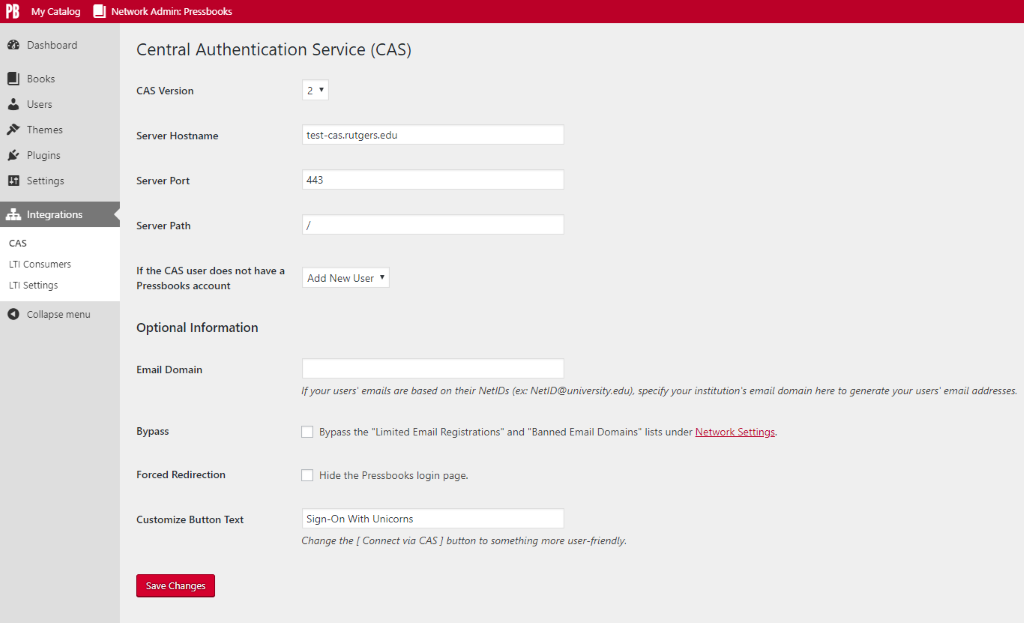
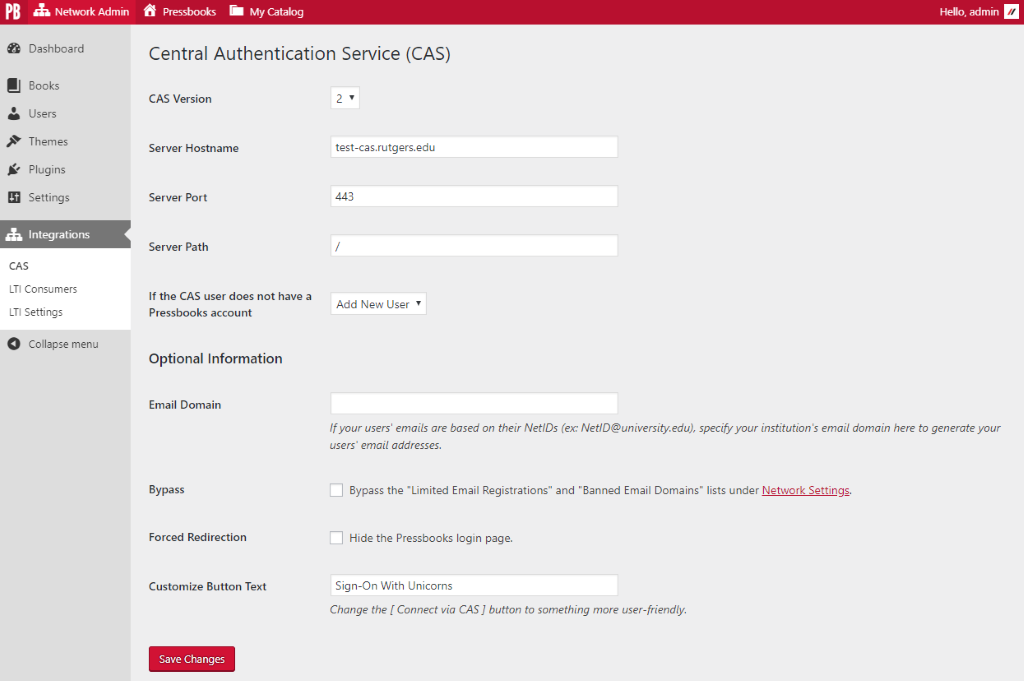
Update screeshot, improve error buffer

diff --git a/inc/class-cas.php b/inc/class-cas.php
@@ -219,7 +219,7 @@ class CAS {
 				if ( phpCAS::isAuthenticated() ) {
 					$net_id = phpCAS::getUser();
 					$email = "{$net_id}@{$this->emailDomain}";
-					ob_get_clean();
+					ob_end_clean();
 					remove_filter( 'authenticate', [ $this, 'authenticate' ], 10 ); // Fix infinite loop
 					$this->handleLoginAttempt( $net_id, $email );
 				}
@@ -239,6 +239,7 @@ class CAS {
 					}
 				}
 			}
+			@ob_end_clean(); // @codingStandardsIgnoreLine
 			$message = $this->authenticationFailedMessage( $this->options['provision'] );
 			if ( $this->forcedRedirection ) {
 				wp_die( $message );

diff --git a/README.md b/README.md
@@ -28,7 +28,7 @@ user can be created, or access can be refused, depending on the configuration.
 composer require pressbooks/pressbooks-cas-sso
 ```
 
-Or, download the latest version from the releases page and unzip it into your WordPress plugin directory): https://github.com/pressbooks/pressbooks-cas-sso/releases
+Or, download the latest version from the releases page and unzip it into your WordPress plugin directory: https://github.com/pressbooks/pressbooks-cas-sso/releases
 
 Then, activate and configure the plugin at the Network level.
 
